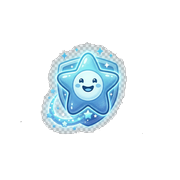
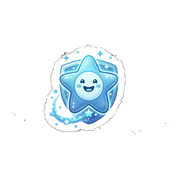
Fix checkerboard artifacts in brand images, switch to white background
The previous transparent-PNG extraction left a visible checkerboard
halo around soft glow edges and inside enclosed shapes (the O in
KUDOS, gaps in the star's trail) — the glow's original semi-transparency
had been blended with the checker before JPEG flattening, so a plain
color-threshold mask couldn't fully separate it back out.

Recovered the alpha-bearing intermediates from the last commit (git
show) and re-masked using connected-component analysis: grow the
background region from the image border AND from any tight
near-checker-gray pixel found anywhere (catching enclosed checker
pockets a border-only flood fill can't reach), instead of a flat
per-pixel color threshold. Composited the result onto a solid white
background per this round's request (landing.png, and all icon-
derived sizes: 192/512/maskable/apple-touch/favicon/32x32).

Also removed the placeholder "kudos" wordmark + blue Heart-icon mark
in the top-left corner (landing page header, sidebar, mobile drawer)
and replaced it with the actual icon-192.png brand mark in all three
spots.

Changed region(s): [[0.2222, 0.2222, 0.7222, 0.75], [0.7778, 0.7222, 0.8056, 0.75], [0.1111, 0.6667, 0.1389, 0.6944]]

diff --git a/components/app-shell.tsx b/components/app-shell.tsx
@@ -1,9 +1,10 @@
 'use client'
 
+import Image from 'next/image'
 import Link from 'next/link'
 import { usePathname } from 'next/navigation'
 import { useEffect, useState } from 'react'
-import { Heart, Home, Sparkles, MessageCircle, Users, User, Settings, Menu, X, Moon, Sun, Bell } from 'lucide-react'
+import { Home, Sparkles, MessageCircle, Users, User, Settings, Menu, X, Moon, Sun, Bell } from 'lucide-react'
 import { cn, initialsFrom } from '@/lib/utils'
 import { useAuth } from '@/lib/auth-context'
 import { useTheme } from '@/lib/use-theme'
@@ -69,13 +70,13 @@ export function AppShell({ children }: { children: React.ReactNode }) {
 
   return <div className="min-h-screen bg-[#f7faff] dark:bg-slate-950 text-slate-900 dark:text-slate-50">
     <aside className="fixed inset-y-0 left-0 z-40 hidden w-64 flex-col border-r border-slate-200 dark:border-slate-800 bg-white dark:bg-slate-900 px-5 py-6 lg:flex">
-      <Link href="/dashboard" className="mb-10 flex items-center gap-2.5 px-2"><span className="flex size-10 items-center justify-center rounded-2xl bg-blue-600 text-white shadow-lg shadow-blue-200"><Heart className="size-5 fill-current" /></span><span className="text-xl font-bold tracking-tight">kudos</span></Link>
+      <Link href="/dashboard" className="mb-10 flex items-center px-2"><Image src="/icon-192.png" alt="Kudos" width={40} height={40} className="size-10" /></Link>
       <Nav pathname={pathname} onNavigate={close} badges={badges} />
       <Link href="/profile" className="mt-auto flex items-center gap-3 border-t border-slate-100 dark:border-slate-800 pt-5"><Avatar initials={initials} /><div className="min-w-0"><p className="truncate text-sm font-semibold">{name}</p><p className="text-xs text-slate-400 dark:text-slate-500">{username}</p></div></Link>
     </aside>
     {open && <button aria-label="Close navigation" onClick={close} className="fixed inset-0 z-30 bg-slate-900/30 lg:hidden" />}
     <aside className={cn('fixed inset-y-0 left-0 z-40 flex w-72 flex-col bg-white dark:bg-slate-900 px-5 py-6 shadow-xl transition-transform lg:hidden', open ? 'translate-x-0' : '-translate-x-full')}>
-      <div className="mb-8 flex items-center justify-between"><Link href="/dashboard" onClick={close} className="flex items-center gap-2.5"><span className="flex size-10 items-center justify-center rounded-2xl bg-blue-600 text-white"><Heart className="size-5 fill-current" /></span><span className="text-xl font-bold">kudos</span></Link><button aria-label="Close menu" onClick={close} className="rounded-lg p-2 text-slate-400 dark:text-slate-500"><X className="size-5" /></button></div><Nav pathname={pathname} onNavigate={close} badges={badges} />
+      <div className="mb-8 flex items-center justify-between"><Link href="/dashboard" onClick={close}><Image src="/icon-192.png" alt="Kudos" width={40} height={40} className="size-10" /></Link><button aria-label="Close menu" onClick={close} className="rounded-lg p-2 text-slate-400 dark:text-slate-500"><X className="size-5" /></button></div><Nav pathname={pathname} onNavigate={close} badges={badges} />
     </aside>
     <div className="lg:pl-64"><header className="sticky top-0 z-20 flex h-16 items-center justify-between border-b border-slate-200 dark:border-slate-800 bg-white/90 dark:bg-slate-900/90 px-5 backdrop-blur md:px-8"><button aria-label="Open menu" onClick={() => setOpen(true)} className="rounded-lg p-2 text-slate-500 dark:text-slate-400 hover:bg-slate-50 dark:hover:bg-slate-800 lg:hidden"><Menu className="size-5" /></button><div className="hidden text-sm font-medium text-slate-500 dark:text-slate-400 lg:block">Make space for good things.</div><div className="ml-auto flex items-center gap-2">
       <div className="relative">

diff --git a/app/page.tsx b/app/page.tsx
@@ -42,11 +42,8 @@ export default function LandingPage() {
   return (
     <main className="min-h-screen bg-[#f7faff] dark:bg-slate-950 text-slate-900 dark:text-slate-50">
       <header className="mx-auto flex max-w-6xl items-center justify-between px-5 py-6 md:px-8">
-        <Link href="/" className="flex items-center gap-2.5">
-          <span className="flex size-10 items-center justify-center rounded-2xl bg-blue-600 text-white shadow-lg shadow-blue-200">
-            <Heart className="size-5 fill-current" />
-          </span>
-          <span className="text-xl font-bold tracking-tight">kudos</span>
+        <Link href="/">
+          <Image src="/icon-192.png" alt="Kudos" width={40} height={40} className="size-10" priority />
         </Link>
         <nav className="flex items-center gap-3 text-sm font-medium">
           <Link href="/login" className="text-slate-500 dark:text-slate-400 hover:text-slate-800 dark:hover:text-slate-100">Log in</Link>
